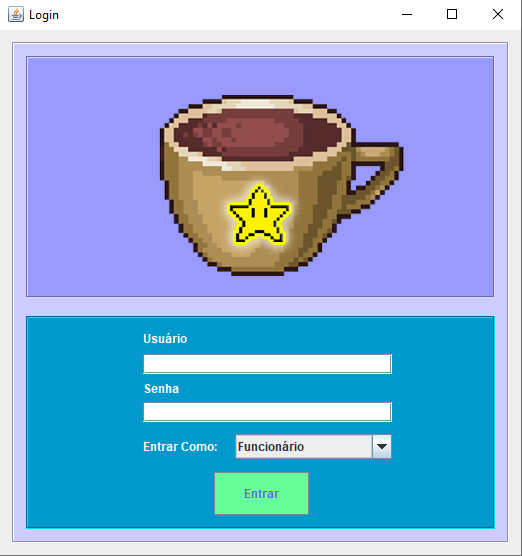
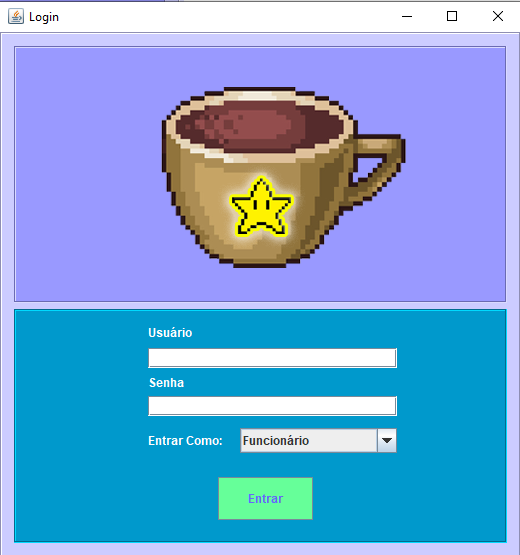
doc corrigida

diff --git a/src/Star_Coffee/UI_Login.java b/src/Star_Coffee/UI_Login.java
@@ -71,14 +71,14 @@ public class UI_Login extends javax.swing.JFrame {
             .addGroup(javax.swing.GroupLayout.Alignment.TRAILING, jPanel1Layout.createSequentialGroup()
                 .addContainerGap(javax.swing.GroupLayout.DEFAULT_SIZE, Short.MAX_VALUE)
                 .addComponent(jLabel1)
-                .addGap(84, 84, 84))
+                .addGap(94, 94, 94))
         );
         jPanel1Layout.setVerticalGroup(
             jPanel1Layout.createParallelGroup(javax.swing.GroupLayout.Alignment.LEADING)
-            .addGroup(javax.swing.GroupLayout.Alignment.TRAILING, jPanel1Layout.createSequentialGroup()
-                .addContainerGap(21, Short.MAX_VALUE)
+            .addGroup(jPanel1Layout.createSequentialGroup()
+                .addGap(23, 23, 23)
                 .addComponent(jLabel1, javax.swing.GroupLayout.PREFERRED_SIZE, 205, javax.swing.GroupLayout.PREFERRED_SIZE)
-                .addContainerGap())
+                .addContainerGap(25, Short.MAX_VALUE))
         );
 
         jPanel3.setBackground(new java.awt.Color(0, 153, 204));
@@ -121,11 +121,11 @@ public class UI_Login extends javax.swing.JFrame {
         jPanel3Layout.setHorizontalGroup(
             jPanel3Layout.createParallelGroup(javax.swing.GroupLayout.Alignment.LEADING)
             .addGroup(jPanel3Layout.createSequentialGroup()
-                .addContainerGap(115, Short.MAX_VALUE)
+                .addContainerGap(132, Short.MAX_VALUE)
                 .addGroup(jPanel3Layout.createParallelGroup(javax.swing.GroupLayout.Alignment.LEADING)
                     .addGroup(javax.swing.GroupLayout.Alignment.TRAILING, jPanel3Layout.createSequentialGroup()
                         .addComponent(btnEntrar, javax.swing.GroupLayout.PREFERRED_SIZE, 95, javax.swing.GroupLayout.PREFERRED_SIZE)
-                        .addGap(184, 184, 184))
+                        .addGap(192, 192, 192))
                     .addGroup(javax.swing.GroupLayout.Alignment.TRAILING, jPanel3Layout.createSequentialGroup()
                         .addGroup(jPanel3Layout.createParallelGroup(javax.swing.GroupLayout.Alignment.LEADING, false)
                             .addComponent(txtUsuario)
@@ -135,13 +135,13 @@ public class UI_Login extends javax.swing.JFrame {
                             .addGroup(jPanel3Layout.createSequentialGroup()
                                 .addComponent(jLabel2)
                                 .addPreferredGap(javax.swing.LayoutStyle.ComponentPlacement.UNRELATED)
-                                .addComponent(cmbType, 0, javax.swing.GroupLayout.DEFAULT_SIZE, Short.MAX_VALUE)))
-                        .addGap(101, 101, 101))))
+                                .addComponent(cmbType, javax.swing.GroupLayout.PREFERRED_SIZE, 157, javax.swing.GroupLayout.PREFERRED_SIZE)))
+                        .addGap(108, 108, 108))))
         );
         jPanel3Layout.setVerticalGroup(
             jPanel3Layout.createParallelGroup(javax.swing.GroupLayout.Alignment.LEADING)
-            .addGroup(jPanel3Layout.createSequentialGroup()
-                .addGap(11, 11, 11)
+            .addGroup(javax.swing.GroupLayout.Alignment.TRAILING, jPanel3Layout.createSequentialGroup()
+                .addContainerGap()
                 .addComponent(lblUsuario, javax.swing.GroupLayout.PREFERRED_SIZE, 19, javax.swing.GroupLayout.PREFERRED_SIZE)
                 .addPreferredGap(javax.swing.LayoutStyle.ComponentPlacement.RELATED)
                 .addComponent(txtUsuario, javax.swing.GroupLayout.PREFERRED_SIZE, javax.swing.GroupLayout.DEFAULT_SIZE, javax.swing.GroupLayout.PREFERRED_SIZE)
@@ -153,9 +153,9 @@ public class UI_Login extends javax.swing.JFrame {
                 .addGroup(jPanel3Layout.createParallelGroup(javax.swing.GroupLayout.Alignment.BASELINE)
                     .addComponent(cmbType, javax.swing.GroupLayout.PREFERRED_SIZE, javax.swing.GroupLayout.DEFAULT_SIZE, javax.swing.GroupLayout.PREFERRED_SIZE)
                     .addComponent(jLabel2))
-                .addGap(13, 13, 13)
+                .addPreferredGap(javax.swing.LayoutStyle.ComponentPlacement.RELATED, 24, Short.MAX_VALUE)
                 .addComponent(btnEntrar, javax.swing.GroupLayout.PREFERRED_SIZE, 43, javax.swing.GroupLayout.PREFERRED_SIZE)
-                .addContainerGap(javax.swing.GroupLayout.DEFAULT_SIZE, Short.MAX_VALUE))
+                .addGap(21, 21, 21))
         );
 
         javax.swing.GroupLayout jPanel2Layout = new javax.swing.GroupLayout(jPanel2);
@@ -173,8 +173,8 @@ public class UI_Login extends javax.swing.JFrame {
             jPanel2Layout.createParallelGroup(javax.swing.GroupLayout.Alignment.LEADING)
             .addGroup(jPanel2Layout.createSequentialGroup()
                 .addContainerGap()
-                .addComponent(jPanel1, javax.swing.GroupLayout.PREFERRED_SIZE, javax.swing.GroupLayout.DEFAULT_SIZE, javax.swing.GroupLayout.PREFERRED_SIZE)
-                .addPreferredGap(javax.swing.LayoutStyle.ComponentPlacement.RELATED, 18, Short.MAX_VALUE)
+                .addComponent(jPanel1, javax.swing.GroupLayout.DEFAULT_SIZE, javax.swing.GroupLayout.DEFAULT_SIZE, Short.MAX_VALUE)
+                .addPreferredGap(javax.swing.LayoutStyle.ComponentPlacement.RELATED)
                 .addComponent(jPanel3, javax.swing.GroupLayout.PREFERRED_SIZE, javax.swing.GroupLayout.DEFAULT_SIZE, javax.swing.GroupLayout.PREFERRED_SIZE)
                 .addContainerGap())
         );
@@ -183,17 +183,11 @@ public class UI_Login extends javax.swing.JFrame {
         getContentPane().setLayout(layout);
         layout.setHorizontalGroup(
             layout.createParallelGroup(javax.swing.GroupLayout.Alignment.LEADING)
-            .addGroup(layout.createSequentialGroup()
-                .addContainerGap()
-                .addComponent(jPanel2, javax.swing.GroupLayout.PREFERRED_SIZE, javax.swing.GroupLayout.DEFAULT_SIZE, javax.swing.GroupLayout.PREFERRED_SIZE)
-                .addContainerGap(javax.swing.GroupLayout.DEFAULT_SIZE, Short.MAX_VALUE))
+            .addComponent(jPanel2, javax.swing.GroupLayout.DEFAULT_SIZE, javax.swing.GroupLayout.DEFAULT_SIZE, Short.MAX_VALUE)
         );
         layout.setVerticalGroup(
             layout.createParallelGroup(javax.swing.GroupLayout.Alignment.LEADING)
-            .addGroup(layout.createSequentialGroup()
-                .addContainerGap()
-                .addComponent(jPanel2, javax.swing.GroupLayout.PREFERRED_SIZE, javax.swing.GroupLayout.DEFAULT_SIZE, javax.swing.GroupLayout.PREFERRED_SIZE)
-                .addContainerGap(javax.swing.GroupLayout.DEFAULT_SIZE, Short.MAX_VALUE))
+            .addComponent(jPanel2, javax.swing.GroupLayout.DEFAULT_SIZE, javax.swing.GroupLayout.DEFAULT_SIZE, Short.MAX_VALUE)
         );
 
         pack();

diff --git a/src/Star_Coffee/UI_SplashScreen.java b/src/Star_Coffee/UI_SplashScreen.java
@@ -35,12 +35,13 @@ public class UI_SplashScreen extends javax.swing.JFrame {
         pBar = new javax.swing.JProgressBar();
         jPanel1 = new javax.swing.JPanel();
         jLabel2 = new javax.swing.JLabel();
+        jLabel3 = new javax.swing.JLabel();
 
         jLabel1.setText("jLabel1");
 
         setDefaultCloseOperation(javax.swing.WindowConstants.EXIT_ON_CLOSE);
         setTitle("Tela de Carregamento");
-        setBackground(new java.awt.Color(255, 153, 153));
+        setBackground(new java.awt.Color(255, 135, 225));
 
         pBar.setBackground(new java.awt.Color(255, 204, 204));
         pBar.setFont(new java.awt.Font("sansserif", 0, 36)); // NOI18N
@@ -55,36 +56,48 @@ public class UI_SplashScreen extends javax.swing.JFrame {
         jLabel2.setBackground(new java.awt.Color(255, 153, 153));
         jLabel2.setIcon(new javax.swing.ImageIcon(getClass().getResource("/images/bakery.png"))); // NOI18N
 
+        jLabel3.setIcon(new javax.swing.ImageIcon(getClass().getResource("/images/star-coffee.png"))); // NOI18N
+
         javax.swing.GroupLayout jPanel1Layout = new javax.swing.GroupLayout(jPanel1);
         jPanel1.setLayout(jPanel1Layout);
         jPanel1Layout.setHorizontalGroup(
             jPanel1Layout.createParallelGroup(javax.swing.GroupLayout.Alignment.LEADING)
             .addGroup(jPanel1Layout.createSequentialGroup()
-                .addContainerGap(347, Short.MAX_VALUE)
-                .addComponent(jLabel2, javax.swing.GroupLayout.PREFERRED_SIZE, 385, javax.swing.GroupLayout.PREFERRED_SIZE)
-                .addGap(317, 317, 317))
+                .addGroup(jPanel1Layout.createParallelGroup(javax.swing.GroupLayout.Alignment.LEADING)
+                    .addGroup(jPanel1Layout.createSequentialGroup()
+                        .addGap(41, 41, 41)
+                        .addComponent(jLabel3, javax.swing.GroupLayout.PREFERRED_SIZE, 499, javax.swing.GroupLayout.PREFERRED_SIZE))
+                    .addGroup(jPanel1Layout.createSequentialGroup()
+                        .addGap(111, 111, 111)
+                        .addComponent(jLabel2)))
+                .addContainerGap(42, Short.MAX_VALUE))
         );
         jPanel1Layout.setVerticalGroup(
             jPanel1Layout.createParallelGroup(javax.swing.GroupLayout.Alignment.LEADING)
             .addGroup(jPanel1Layout.createSequentialGroup()
-                .addGap(75, 75, 75)
+                .addContainerGap(61, Short.MAX_VALUE)
                 .addComponent(jLabel2)
-                .addContainerGap(261, Short.MAX_VALUE))
+                .addGap(37, 37, 37)
+                .addComponent(jLabel3, javax.swing.GroupLayout.PREFERRED_SIZE, 150, javax.swing.GroupLayout.PREFERRED_SIZE)
+                .addContainerGap())
         );
 
         javax.swing.GroupLayout layout = new javax.swing.GroupLayout(getContentPane());
         getContentPane().setLayout(layout);
         layout.setHorizontalGroup(
             layout.createParallelGroup(javax.swing.GroupLayout.Alignment.LEADING)
-            .addComponent(pBar, javax.swing.GroupLayout.DEFAULT_SIZE, javax.swing.GroupLayout.DEFAULT_SIZE, Short.MAX_VALUE)
-            .addComponent(jPanel1, javax.swing.GroupLayout.Alignment.TRAILING, javax.swing.GroupLayout.DEFAULT_SIZE, javax.swing.GroupLayout.DEFAULT_SIZE, Short.MAX_VALUE)
+            .addGroup(javax.swing.GroupLayout.Alignment.TRAILING, layout.createSequentialGroup()
+                .addGroup(layout.createParallelGroup(javax.swing.GroupLayout.Alignment.TRAILING)
+                    .addComponent(pBar, javax.swing.GroupLayout.Alignment.LEADING, javax.swing.GroupLayout.DEFAULT_SIZE, javax.swing.GroupLayout.DEFAULT_SIZE, Short.MAX_VALUE)
+                    .addComponent(jPanel1, javax.swing.GroupLayout.DEFAULT_SIZE, javax.swing.GroupLayout.DEFAULT_SIZE, Short.MAX_VALUE))
+                .addGap(0, 0, 0))
         );
         layout.setVerticalGroup(
             layout.createParallelGroup(javax.swing.GroupLayout.Alignment.LEADING)
             .addGroup(javax.swing.GroupLayout.Alignment.TRAILING, layout.createSequentialGroup()
-                .addComponent(jPanel1, javax.swing.GroupLayout.DEFAULT_SIZE, javax.swing.GroupLayout.DEFAULT_SIZE, Short.MAX_VALUE)
-                .addPreferredGap(javax.swing.LayoutStyle.ComponentPlacement.RELATED)
-                .addComponent(pBar, javax.swing.GroupLayout.PREFERRED_SIZE, 85, javax.swing.GroupLayout.PREFERRED_SIZE))
+                .addComponent(jPanel1, javax.swing.GroupLayout.PREFERRED_SIZE, javax.swing.GroupLayout.DEFAULT_SIZE, javax.swing.GroupLayout.PREFERRED_SIZE)
+                .addGap(0, 0, 0)
+                .addComponent(pBar, javax.swing.GroupLayout.PREFERRED_SIZE, 95, javax.swing.GroupLayout.PREFERRED_SIZE))
         );
 
         pack();
@@ -140,6 +153,7 @@ public class UI_SplashScreen extends javax.swing.JFrame {
     // Variables declaration - do not modify//GEN-BEGIN:variables
     private javax.swing.JLabel jLabel1;
     private javax.swing.JLabel jLabel2;
+    private javax.swing.JLabel jLabel3;
     private javax.swing.JPanel jPanel1;
     public javax.swing.JProgressBar pBar;
     // End of variables declaration//GEN-END:variables

diff --git a/README.md b/README.md
@@ -50,7 +50,7 @@ O diagrama acima mostra o planejamento da programação orientada a objetos na l
 
 ### **Tela Carregamento**  
 
-<img src="images/splash.png">
+<img src="images/splash.png" height="400px">
 
 Esta é a tela de carregamento do sistema, possui uma barra de progresso e um ícone característico da empresa.
 
